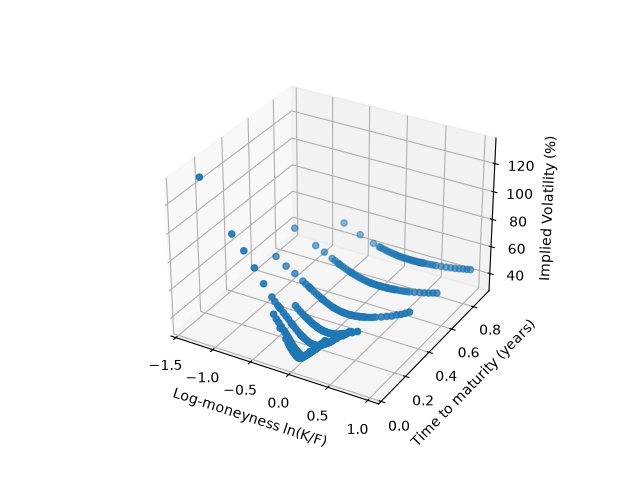
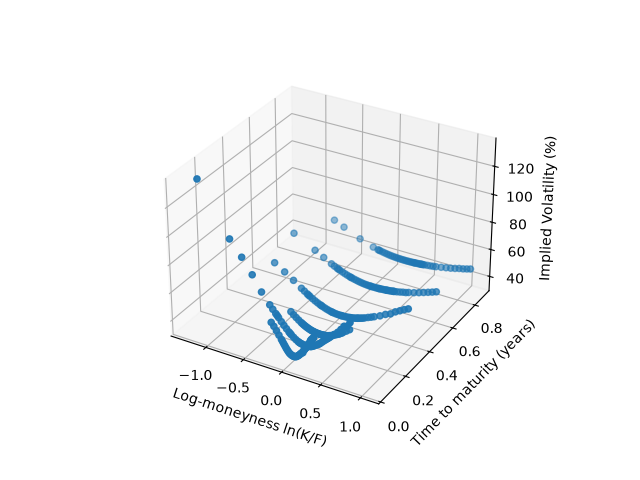
"Add tests for Liquidity Filter using pytest" (#4)
* Add WIP tests for liquidity filter

* Add tests for liquidity filter

* Add pytest instructions to README.md

diff --git a/tests/test_market_data.py b/tests/test_market_data.py
@@ -1,0 +1,106 @@
+from datetime import UTC, datetime, timedelta
+
+import pandas as pd
+
+from vol_surface.market_data import filter_illiquid_options, run_surface_data_pipeline
+
+
+def test_filter_keeps_options_at_or_above_min_days():
+
+    # Arrange
+    df = pd.DataFrame(
+        {
+            "time_to_maturity": [6 / 365, 7 / 365, 8 / 365],
+            "bid_price": [1, 1, 1],
+            "ask_price": [1, 1, 1],
+        }
+    )
+
+    # Act
+    result = filter_illiquid_options(df, min_days=7)
+
+    # Assert
+    assert result["time_to_maturity"].tolist() == [7 / 365, 8 / 365]
+
+
+def test_filter_keeps_options_with_both_bid_ask():
+
+    # Arrange
+    df = pd.DataFrame(
+        {
+            "time_to_maturity": [8 / 365, 8 / 365, 8 / 365, 8 / 365],
+            "bid_price": [None, 1, 1, None],
+            "ask_price": [1, None, 1, None],
+        }
+    )
+
+    # Act
+    result = filter_illiquid_options(df, min_days=7)
+
+    # Assert
+    assert result.index.tolist() == [2]
+
+
+def expiry_in_days(days: float) -> int:
+    """Return the expiry timestamp in ms, 'days' from now in (UTC)."""
+    expiry = datetime.now(UTC) + timedelta(days=days)
+    return int(expiry.timestamp() * 1000)
+
+
+def test_filter_works_in_pipeline():
+
+    # Arrange
+    min_days = 10
+
+    instruments = [
+        {
+            "instrument_name": "a",
+            "expiration_timestamp": expiry_in_days(5),
+            "strike": 90,
+            "option_type": "call",
+        },
+        {
+            "instrument_name": "b",
+            "expiration_timestamp": expiry_in_days(10),
+            "strike": 90,
+            "option_type": "call",
+        },
+        {
+            "instrument_name": "c",
+            "expiration_timestamp": expiry_in_days(11),
+            "strike": 90,
+            "option_type": "call",
+        },
+    ]
+
+    book_summary = [
+        {
+            "instrument_name": "a",
+            "mark_iv": 20,
+            "underlying_price": 80,
+            "bid_price": 1,
+            "ask_price": 1,
+        },
+        {
+            "instrument_name": "b",
+            "mark_iv": 20,
+            "underlying_price": 80,
+            "bid_price": 1,
+            "ask_price": 1,
+        },
+        {
+            "instrument_name": "c",
+            "mark_iv": 20,
+            "underlying_price": 80,
+            "bid_price": 1,
+            "ask_price": 1,
+        },
+    ]
+
+    # Act
+    results = run_surface_data_pipeline(
+        instruments, book_summary, filter_illiquid=True, min_days=min_days
+    )
+
+    # Assert
+    assert results.index.tolist() == [2]

diff --git a/src/vol_surface/market_data.py b/src/vol_surface/market_data.py
@@ -1,6 +1,8 @@
-from datetime import datetime, timezone
-import pandas as pd
+from datetime import UTC, datetime
+
 import numpy as np
+import pandas as pd
+
 from vol_surface.deribit import get_book_summary_by_currency, get_instruments
 
 
@@ -38,7 +40,7 @@ def prepare_surface_data(df: pd.DataFrame) -> pd.DataFrame:
     df["moneyness"] = np.log(df["strike"] / df["underlying_price"])
 
     expiry_dt = pd.to_datetime(df["expiration_timestamp"], unit="ms", utc=True)
-    current_dt = datetime.now(timezone.utc)
+    current_dt = datetime.now(UTC)
     df["time_to_maturity"] = (expiry_dt - current_dt) / pd.Timedelta(days=365)
 
     filtered_df = df[
@@ -50,9 +52,9 @@ def prepare_surface_data(df: pd.DataFrame) -> pd.DataFrame:
 
 
 def filter_illiquid_options(df: pd.DataFrame, min_days: int = 7) -> pd.DataFrame:
-    """Remove options that expire soon and that don't have both bid and ask"""
+    """Remove options close to expiration and that don't have both a bid and an ask"""
 
-    df = df[df["time_to_maturity"] > (min_days / 365)]
+    df = df[df["time_to_maturity"] >= (min_days / 365)]
     df = df[df["bid_price"].notna() & df["ask_price"].notna()]
 
     return df
@@ -67,14 +69,14 @@ def select_surface_columns(df: pd.DataFrame) -> pd.DataFrame:
 def run_surface_data_pipeline(
     instruments: list[dict],
     book_summary_by_currency: list[dict],
-    filterilliquid: bool = True,
-    min_days: int = 7
+    filter_illiquid: bool = True,
+    min_days: int = 7,
 ) -> pd.DataFrame:
     """Run full market data pipeline"""
 
     df = merge_market_data(instruments, book_summary_by_currency)
     plotting_data = prepare_surface_data(df=df)
-    if filterilliquid:
+    if filter_illiquid:
         plotting_data = filter_illiquid_options(plotting_data, min_days=min_days)
     plotting_data = select_surface_columns(plotting_data)
 
@@ -90,6 +92,6 @@ if __name__ == "__main__":
     )
 
     plotting_data = run_surface_data_pipeline(
-        instruments, book_summary_by_currency, filterilliquid=True, min_days=7
+        instruments, book_summary_by_currency, filter_illiquid=True, min_days=7
     )
     print(plotting_data.describe())

diff --git a/src/vol_surface/surface.py b/src/vol_surface/surface.py
@@ -1,7 +1,8 @@
 import matplotlib.pyplot as plt
 import pandas as pd
+
+from vol_surface.deribit import get_book_summary_by_currency, get_instruments
 from vol_surface.market_data import run_surface_data_pipeline
-from vol_surface.deribit import get_instruments, get_book_summary_by_currency
 
 
 def plot_surface(df: pd.DataFrame) -> plt.Figure:
@@ -25,7 +26,7 @@ if __name__ == "__main__":
     )
 
     plotting_data = run_surface_data_pipeline(
-        instruments, book_summary_by_currency, filterilliquid=True, min_days=15
+        instruments, book_summary_by_currency, filter_illiquid=True, min_days=15
     )
 
     fig = plot_surface(plotting_data)

diff --git a/README.md b/README.md
@@ -1,10 +1,23 @@
-## Volatility Surface constructor using Deribit API
+# Volatility Surface constructor using Deribit API
 
 
-# Setup 
+## Setup 
 
 Run the following commands, perhaps uv must be installed first
 
 - git clone https://github.com/AleksandarD777/vol-surface.git
 - cd vol-surface
 - uv sync
+
+## Running Tests
+
+To run the tests implemented using pytest, in your terminal type:
+
+```bash
+uv run pytest
+```
+
+Run them before opening a pull request to catch regressions.
+
+To add tests, create a file named `test_*.py` in `tests/` and write
+functions named `test_*`; pytest discovers them automatically.
